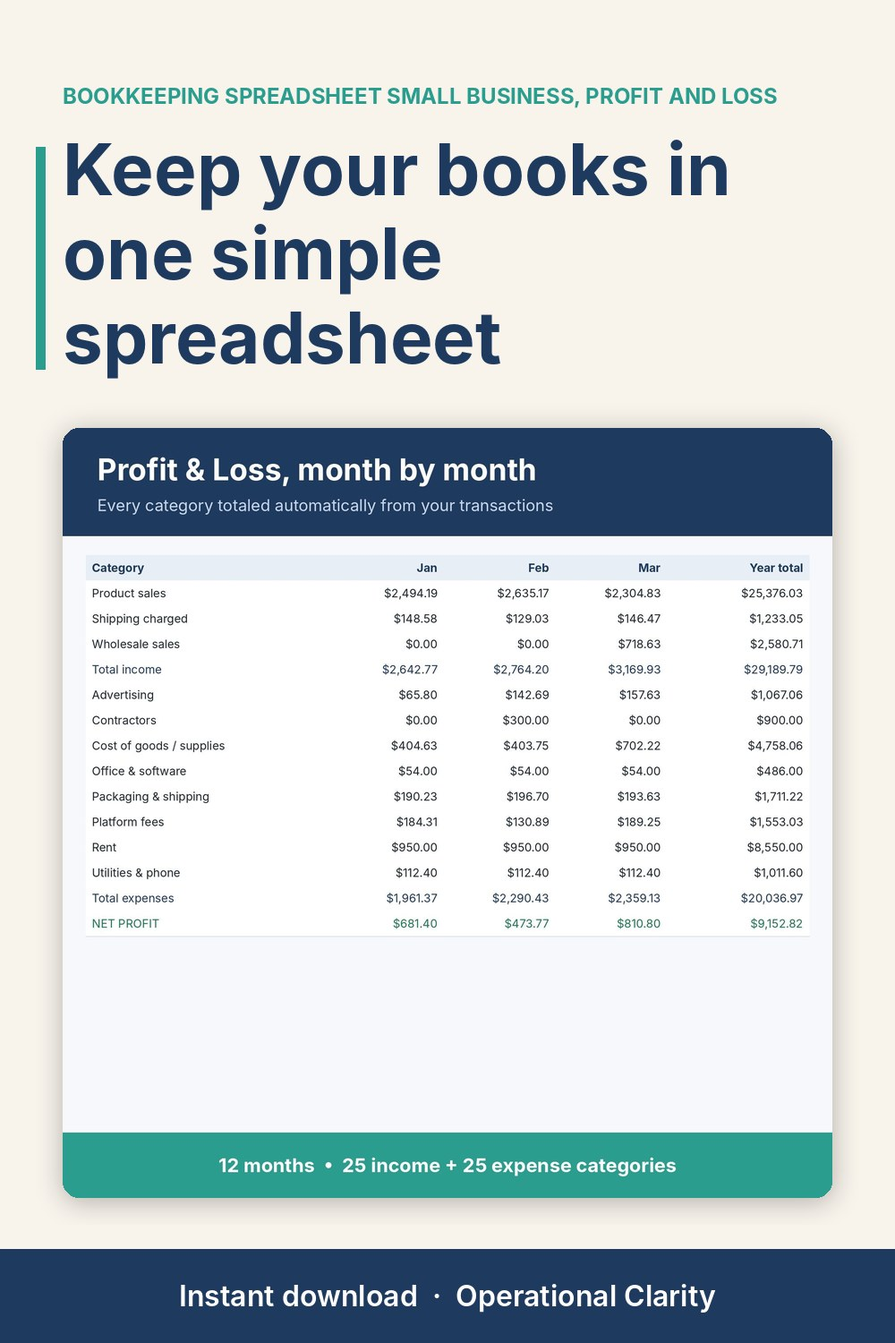
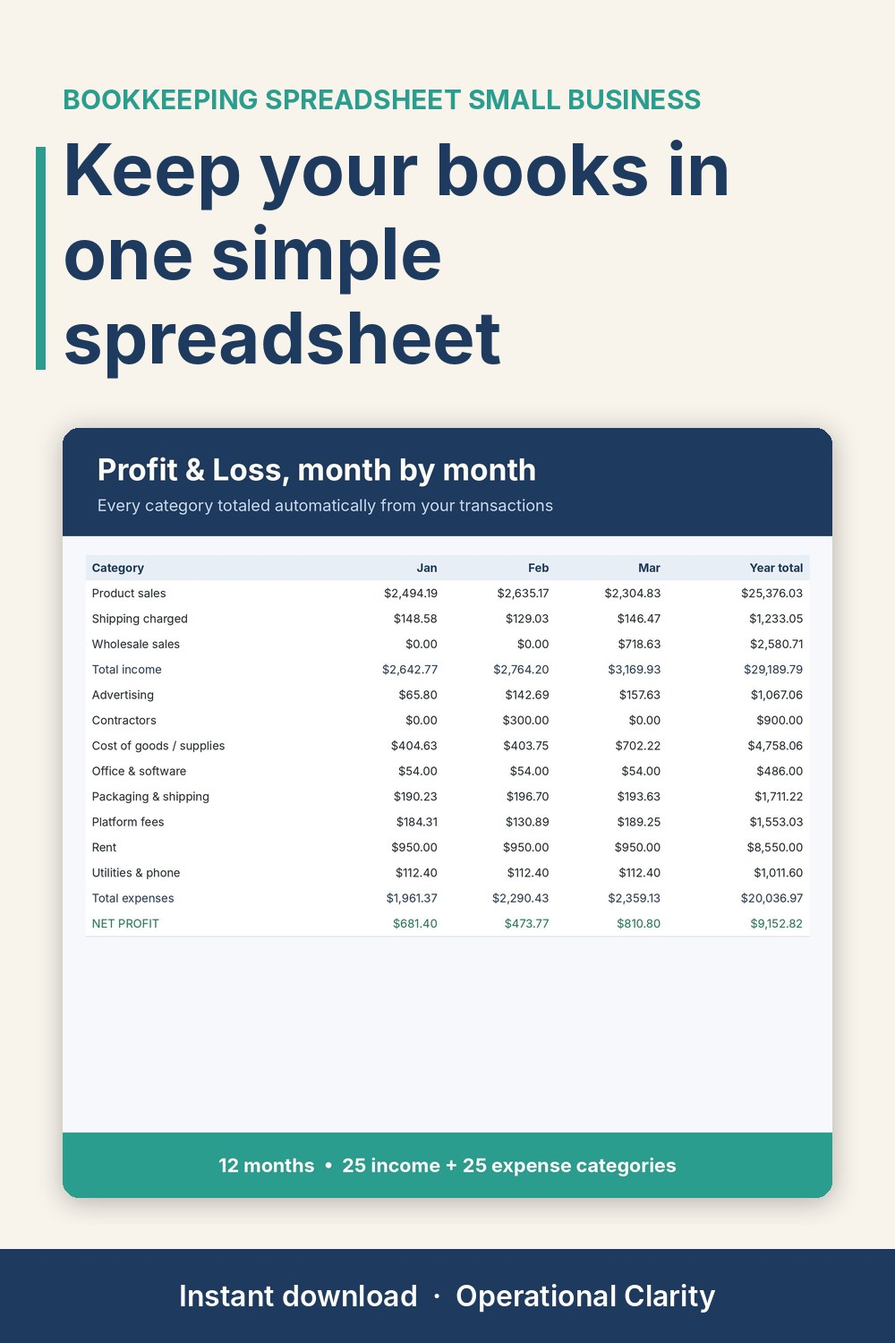
PROMO 11/05: main + b pins for Spray Tan 4609739239 and Dog Grooming 4610492983; main pins re-rendered for reverted titles (4596837173, 4598084241) and 4558377143 title fix; refresh feed
Claude-Session: https://claude.ai/code/session_01DNMp1qHdJLzhWbKsZHTYBr

Changed region(s): [[0.062, 0.0613, 0.868, 0.092]]

diff --git a/index.html b/index.html
@@ -7,6 +7,6 @@
 <div class="card"><h2><a href="recipe-cost-calculator.html">Recipe Cost Calculator</a></h2><p>Cost per batch, cost per serving and a suggested price for baked goods.</p></div>
 <div class="card"><h2><a href="paycheck-budget-calculator.html">Paycheck Budget Calculator</a></h2><p>Split bills across paychecks and see what is left from each one.</p></div>
 <div class="card"><h2><a href="landed-cost-calculator.html">Landed Cost Calculator</a></h2><p>True cost per unit after freight, duty and fees.</p></div>
-<h2 id="templates">Spreadsheet & Document Templates</h2><ul><li><a href="p/4595349035.html">2027 Planner Digital &amp; Printable</a></li><li><a href="p/4594598019.html">Airbnb Welcome Book Template Editable in Word Google Docs</a></li><li><a href="p/4602024296.html">Babysitting Forms Kit</a></li><li><a href="p/4553654453.html">Bakery Business Bundle</a></li><li><a href="p/4596837173.html">Bookkeeping Spreadsheet Small Business, Profit and Loss, Income Expense Tracker, Invoice Tracker, Bank Reconciliation, Accounting Template</a></li><li><a href="p/4608973473.html">Brow Lamination Forms Kit</a></li><li><a href="p/4554866019.html">Business Budget Spreadsheet</a></li><li><a href="p/4600601073.html">Candle Making Log Spreadsheet + Fragrance Load Calculator</a></li><li><a href="p/4601355308.html">Catering Contract Template, Catering Business Contract, Catering Agreement &amp; Order Form, BEO, Menu Quote Calculator, Invoice, Word PDF Excel</a></li><li><a href="p/4607543295.html">Cleaning Business Forms Kit</a></li><li><a href="p/4598967865.html">Coffee Shop Business Plan Template + Startup &amp; Profit Planner Spreadsheet</a></li><li><a href="p/4602477706.html">Consignment Tracker Spreadsheet + Consignment Agreement</a></li><li><a href="p/4600607420.html">Consulting Contract Template + Statement of Work &amp; Proposal</a></li><li><a href="p/4554878636.html">Contract Tracker Spreadsheet</a></li><li><a href="p/4597002015.html">Cookie Pricing Calculator</a></li><li><a href="p/4601198780.html">Dance Studio Forms Kit</a></li><li><a href="p/4601100164.html">Daycare Menu Planner Spreadsheet + Weekly Menu Template</a></li><li><a href="p/4598811066.html">Embroidery Pricing Calculator Spreadsheet</a></li><li><a href="p/4594516468.html">Employee Schedule Template Excel Google Sheets</a></li><li><a href="p/4607276707.html">Esthetician Forms Kit</a></li><li><a href="p/4599677766.html">Event Planning Contract Template, Editable Event Planner Contract, Wedding Planner Agreement, Client Questionnaire, Budget &amp; Vendor Tracker</a></li><li><a href="p/4599435344.html">Florist Order Form Template + Wedding Consultation Form &amp; Flower Pricing Calculator</a></li><li><a href="p/4602913827.html">Food Cost Bundle</a></li><li><a href="p/4597499808.html">Food Truck Business Plan Template + Startup &amp; Profit Planner Spreadsheet</a></li><li><a href="p/4602392090.html">Freelance Writer Contract Template Kit</a></li><li><a href="p/4601783746.html">Graphic Design Contract Template Kit</a></li><li><a href="p/4597022350.html">Home Daycare Starter Kit</a></li><li><a href="p/4601273740.html">Horse Boarding Contract Kit</a></li><li><a href="p/4552565761.html">Ingredient Cost Comparison Sheet</a></li><li><a href="p/4552578072.html">Inventory Count Sheet</a></li><li><a href="p/4554865995.html">Inventory Loss Tracker</a></li><li><a href="p/4553664350.html">Inventory Management Bundle</a></li><li><a href="p/4443844823.html">Inventory Tracker Spreadsheet with Reorder Alerts</a></li><li><a href="p/4602913735.html">Inventory and Ordering Bundle</a></li><li><a href="p/4554878596.html">Landed Cost Calculator Spreadsheet</a></li><li><a href="p/4602544610.html">Landscaping Contract Template Kit</a></li><li><a href="p/4606330823.html">Lash Tech Forms Kit</a></li><li><a href="p/4608245532.html">Makeup Artist Contract Kit</a></li><li><a href="p/4598084241.html">Massage Intake Form, Massage Consent Form, Massage SOAP Notes, Health History + Client Tracker Spreadsheet</a></li><li><a href="p/4601646939.html">Mobile Bar Service Contract Template, Mobile Bartending Contract &amp; Invoice, Bartender Agreement, Drink Calculator, Event Tracker, Word Excel</a></li><li><a href="p/4554866001.html">Multi Location Inventory Tracker</a></li><li><a href="p/4602844224.html">Nail Tech Forms Kit</a></li><li><a href="p/4601947594.html">Nanny Contract Template Kit</a></li><li><a href="p/4598251079.html">Notary Log Printable, Notary Journal 150 Entries, Notary Record Book + Business Kit, Fee Sheet, Loan Signing Checklist &amp; Mileage Tracker</a></li><li><a href="p/4594847811.html">Paycheck Budget Planner Spreadsheet</a></li><li><a href="p/4599761870.html">Personal Trainer Forms + Client Tracker</a></li><li><a href="p/4598178519.html">Pet Sitting Contract Template, Pet Sitting Service Agreement, Dog Walking Business Forms, Pet Care Sheet, Visit Report &amp; Invoice Tracker</a></li><li><a href="p/4597992636.html">Photography Client Questionnaire Templates + Pricing Calculator &amp; Booking Tracker</a></li><li><a href="p/4599831777.html">Piano Lesson Tracker + Practice Assignment Sheet &amp; Studio Policy</a></li><li><a href="p/4594208500.html">Print on Demand Profit Tracker Spreadsheet</a></li><li><a href="p/4554878680.html">Product Cost Calculator</a></li><li><a href="p/4603480063.html">Purchase Order + Inventory Dashboard</a></li><li><a href="p/4552565751.html">Purchase Order Approval Tracker</a></li><li><a href="p/4430807339.html">Purchase Order Tracker Spreadsheet &amp; Receiving Log</a></li><li><a href="p/4552578064.html">Purchasing SOP Templates</a></li><li><a href="p/4553664356.html">Purchasing Templates Bundle</a></li><li><a href="p/4558377143.html">QuickBooks Dashboard Template</a></li><li><a href="p/4554878614.html">Quote Comparison Spreadsheet</a></li><li><a href="p/4562652240.html">Recipe Cost and Pricing Calculator, Bakery Pricing Spreadsheet, Ingredient Cost &amp; Profit Margin Sheet for Home Bakery and Food Business</a></li><li><a href="p/4552578048.html">Reorder Point Calculator</a></li><li><a href="p/4600974020.html">Restaurant Inventory Sheet + Food Cost Calculator</a></li><li><a href="p/4604903580.html">Restaurant Purchasing Bundle</a></li><li><a href="p/4604185746.html">Retail Shop Bundle</a></li><li><a href="p/4554878660.html">Returns Tracker Spreadsheet</a></li><li><a href="p/4554878628.html">Sales Forecast Spreadsheet</a></li><li><a href="p/4597001937.html">Salon Booth Rental Contract, Booth Rental Agreement, Salon Station &amp; Chair Rental, Renter Application, Policies, Rent Tracker, Word Excel</a></li><li><a href="p/4561265217.html">Simple Inventory Tracker Spreadsheet</a></li><li><a href="p/4605653122.html">Small Business Bookkeeping Dashboard</a></li><li><a href="p/4553654601.html">Small Business Operations Bundle</a></li><li><a href="p/4598888813.html">Soap Making Log Spreadsheet + Cost per Bar Calculator</a></li><li><a href="p/4598679324.html">Social Media Manager Contract Template, Social Media Agreement, Client Onboarding Questionnaire, Pricing Calculator &amp; Client Tracker</a></li><li><a href="p/4552578060.html">Supplier Price Tracker</a></li><li><a href="p/4552578052.html">Supplier Tracker Spreadsheet</a></li><li><a href="p/4602618784.html">Tattoo Consent Form Kit</a></li><li><a href="p/4596131544.html">Tax Deduction Tracker Spreadsheet</a></li><li><a href="p/4601852361.html">Tutoring Contract Template Kit</a></li><li><a href="p/4552565827.html">Vendor Onboarding Checklist</a></li><li><a href="p/4599059861.html">Virtual Assistant Contract Template, VA Services Agreement, Client Onboarding Questionnaire, Retainer Time &amp; Invoice Tracker, Word Excel</a></li><li><a href="p/4554865969.html">Warehouse Spreadsheet</a></li><li><a href="p/4602285754.html">Web Design Contract Template Kit</a></li><li><a href="p/4598332795.html">Wholesale Order Form Template, Editable Wholesale Price List &amp; Order Tracker Spreadsheet, Wholesale Terms, Buyer Application, Excel Word</a></li><li><a href="p/4561283977.html">Wholesale Price List Template Excel Google Sheets</a></li></ul>
+<h2 id="templates">Spreadsheet & Document Templates</h2><ul><li><a href="p/4595349035.html">2027 Planner Digital &amp; Printable</a></li><li><a href="p/4594598019.html">Airbnb Welcome Book Template Editable in Word Google Docs</a></li><li><a href="p/4602024296.html">Babysitting Forms Kit</a></li><li><a href="p/4553654453.html">Bakery Business Bundle</a></li><li><a href="p/4596837173.html">Bookkeeping Spreadsheet Small Business</a></li><li><a href="p/4608973473.html">Brow Lamination Forms Kit</a></li><li><a href="p/4554866019.html">Business Budget Spreadsheet</a></li><li><a href="p/4600601073.html">Candle Making Log Spreadsheet + Fragrance Load Calculator</a></li><li><a href="p/4601355308.html">Catering Contract Template, Catering Business Contract, Catering Agreement &amp; Order Form, BEO, Menu Quote Calculator, Invoice, Word PDF Excel</a></li><li><a href="p/4607543295.html">Cleaning Business Forms Kit</a></li><li><a href="p/4598967865.html">Coffee Shop Business Plan Template + Startup &amp; Profit Planner Spreadsheet</a></li><li><a href="p/4602477706.html">Consignment Tracker Spreadsheet + Consignment Agreement</a></li><li><a href="p/4600607420.html">Consulting Contract Template + Statement of Work &amp; Proposal</a></li><li><a href="p/4554878636.html">Contract Tracker Spreadsheet</a></li><li><a href="p/4597002015.html">Cookie Pricing Calculator</a></li><li><a href="p/4601198780.html">Dance Studio Forms Kit</a></li><li><a href="p/4601100164.html">Daycare Menu Planner Spreadsheet + Weekly Menu Template</a></li><li><a href="p/4610492983.html">Dog Grooming Forms Kit</a></li><li><a href="p/4598811066.html">Embroidery Pricing Calculator Spreadsheet</a></li><li><a href="p/4594516468.html">Employee Schedule Template Excel Google Sheets</a></li><li><a href="p/4607276707.html">Esthetician Forms Kit</a></li><li><a href="p/4599677766.html">Event Planning Contract Template, Editable Event Planner Contract, Wedding Planner Agreement, Client Questionnaire, Budget &amp; Vendor Tracker</a></li><li><a href="p/4599435344.html">Florist Order Form Template + Wedding Consultation Form &amp; Flower Pricing Calculator</a></li><li><a href="p/4602913827.html">Food Cost Bundle</a></li><li><a href="p/4597499808.html">Food Truck Business Plan Template + Startup &amp; Profit Planner Spreadsheet</a></li><li><a href="p/4602392090.html">Freelance Writer Contract Template Kit</a></li><li><a href="p/4601783746.html">Graphic Design Contract Template Kit</a></li><li><a href="p/4597022350.html">Home Daycare Starter Kit</a></li><li><a href="p/4601273740.html">Horse Boarding Contract Kit</a></li><li><a href="p/4552565761.html">Ingredient Cost Comparison Sheet</a></li><li><a href="p/4552578072.html">Inventory Count Sheet</a></li><li><a href="p/4554865995.html">Inventory Loss Tracker</a></li><li><a href="p/4553664350.html">Inventory Management Bundle</a></li><li><a href="p/4443844823.html">Inventory Tracker Spreadsheet with Reorder Alerts</a></li><li><a href="p/4602913735.html">Inventory and Ordering Bundle</a></li><li><a href="p/4554878596.html">Landed Cost Calculator Spreadsheet</a></li><li><a href="p/4602544610.html">Landscaping Contract Template Kit</a></li><li><a href="p/4606330823.html">Lash Tech Forms Kit</a></li><li><a href="p/4608245532.html">Makeup Artist Contract Kit</a></li><li><a href="p/4598084241.html">Massage Intake Form Template + SOAP Notes &amp; Client Tracker Spreadsheet</a></li><li><a href="p/4601646939.html">Mobile Bar Service Contract Template, Mobile Bartending Contract &amp; Invoice, Bartender Agreement, Drink Calculator, Event Tracker, Word Excel</a></li><li><a href="p/4558377143.html">Monthly Profit and Loss Dashboard Template</a></li><li><a href="p/4554866001.html">Multi Location Inventory Tracker</a></li><li><a href="p/4602844224.html">Nail Tech Forms Kit</a></li><li><a href="p/4601947594.html">Nanny Contract Template Kit</a></li><li><a href="p/4598251079.html">Notary Log Printable, Notary Journal 150 Entries, Notary Record Book + Business Kit, Fee Sheet, Loan Signing Checklist &amp; Mileage Tracker</a></li><li><a href="p/4594847811.html">Paycheck Budget Planner Spreadsheet</a></li><li><a href="p/4599761870.html">Personal Trainer Forms + Client Tracker</a></li><li><a href="p/4598178519.html">Pet Sitting Contract Template, Pet Sitting Service Agreement, Dog Walking Business Forms, Pet Care Sheet, Visit Report &amp; Invoice Tracker</a></li><li><a href="p/4597992636.html">Photography Client Questionnaire Templates + Pricing Calculator &amp; Booking Tracker</a></li><li><a href="p/4599831777.html">Piano Lesson Tracker + Practice Assignment Sheet &amp; Studio Policy</a></li><li><a href="p/4594208500.html">Print on Demand Profit Tracker Spreadsheet</a></li><li><a href="p/4554878680.html">Product Cost Calculator</a></li><li><a href="p/4603480063.html">Purchase Order + Inventory Dashboard</a></li><li><a href="p/4552565751.html">Purchase Order Approval Tracker</a></li><li><a href="p/4430807339.html">Purchase Order Tracker Spreadsheet &amp; Receiving Log</a></li><li><a href="p/4552578064.html">Purchasing SOP Templates</a></li><li><a href="p/4553664356.html">Purchasing Templates Bundle</a></li><li><a href="p/4554878614.html">Quote Comparison Spreadsheet</a></li><li><a href="p/4562652240.html">Recipe Cost and Pricing Calculator, Bakery Pricing Spreadsheet, Ingredient Cost &amp; Profit Margin Sheet for Home Bakery and Food Business</a></li><li><a href="p/4552578048.html">Reorder Point Calculator</a></li><li><a href="p/4600974020.html">Restaurant Inventory Sheet + Food Cost Calculator</a></li><li><a href="p/4604903580.html">Restaurant Purchasing Bundle</a></li><li><a href="p/4604185746.html">Retail Shop Bundle</a></li><li><a href="p/4554878660.html">Returns Tracker Spreadsheet</a></li><li><a href="p/4554878628.html">Sales Forecast Spreadsheet</a></li><li><a href="p/4597001937.html">Salon Booth Rental Contract, Booth Rental Agreement, Salon Station &amp; Chair Rental, Renter Application, Policies, Rent Tracker, Word Excel</a></li><li><a href="p/4561265217.html">Simple Inventory Tracker Spreadsheet</a></li><li><a href="p/4605653122.html">Small Business Bookkeeping Dashboard</a></li><li><a href="p/4553654601.html">Small Business Operations Bundle</a></li><li><a href="p/4598888813.html">Soap Making Log Spreadsheet + Cost per Bar Calculator</a></li><li><a href="p/4598679324.html">Social Media Manager Contract Template, Social Media Agreement, Client Onboarding Questionnaire, Pricing Calculator &amp; Client Tracker</a></li><li><a href="p/4609739239.html">Spray Tan Forms Kit</a></li><li><a href="p/4552578060.html">Supplier Price Tracker</a></li><li><a href="p/4552578052.html">Supplier Tracker Spreadsheet</a></li><li><a href="p/4602618784.html">Tattoo Consent Form Kit</a></li><li><a href="p/4596131544.html">Tax Deduction Tracker Spreadsheet</a></li><li><a href="p/4601852361.html">Tutoring Contract Template Kit</a></li><li><a href="p/4552565827.html">Vendor Onboarding Checklist</a></li><li><a href="p/4599059861.html">Virtual Assistant Contract Template, VA Services Agreement, Client Onboarding Questionnaire, Retainer Time &amp; Invoice Tracker, Word Excel</a></li><li><a href="p/4554865969.html">Warehouse Spreadsheet</a></li><li><a href="p/4602285754.html">Web Design Contract Template Kit</a></li><li><a href="p/4598332795.html">Wholesale Order Form Template, Editable Wholesale Price List &amp; Order Tracker Spreadsheet, Wholesale Terms, Buyer Application, Excel Word</a></li><li><a href="p/4561283977.html">Wholesale Price List Template Excel Google Sheets</a></li></ul>
 <p>Want the full spreadsheet versions? <a class="cta" href="https://www.etsy.com/shop/Operationalclarity">Browse all templates on Etsy</a></p>
 </main><footer>Free tools by <a href="https://www.etsy.com/shop/Operationalclarity">Operational Clarity</a>. Estimates only, not financial or tax advice. Not affiliated with Etsy.</footer></body></html>

diff --git a/p/4609739239.html b/p/4609739239.html
@@ -1,0 +1,8 @@
+<!doctype html><html lang="en"><head><meta charset="utf-8"><meta name="viewport" content="width=device-width,initial-scale=1">
+<title>Spray Tan Forms Kit | Operational Clarity</title><meta name="description" content="Get the consent form and patch test record on file, price every spray tan so it pays you, and know when each client is due back: a complete spray tan forms">
+<link rel="canonical" href="https://hgmanagementusa-bot.github.io/operationalclarity-tools/p/4609739239.html"><link rel="stylesheet" href="../style.css">
+<meta property="og:title" content="Spray Tan Forms Kit"><meta property="og:image" content="https://hgmanagementusa-bot.github.io/operationalclarity-tools/pins/4609739239.jpg"><meta property="og:type" content="product"></head>
+<body><header><a href="../index.html">Operational Clarity · Small Business Templates</a></header><main>
+<h1>Spray Tan Forms Kit</h1><img src="../pins/4609739239.jpg" alt="Spray Tan Forms Kit" style="max-width:100%;height:auto;border-radius:8px">
+<p><a class="cta" href="https://www.etsy.com/listing/4609739239/spray-tan-forms-kit-spray-tan-consent">Get it on Etsy</a></p><p>Get the consent form and patch test record on file, price every spray tan so it pays you, and know when each client is due back: a complete spray tan forms kit with a working pricing calculator and client tracker, not just a few printable pages.</p><p>WHAT&#x27;S INSIDE<br>- Spray Tan Client Intake &amp; Consent Form (Word + PDF, 2 pages): client details, service and shade wanted, event date, skin type and tan history (skin tone, undertone, how skin reacts to sun, last spray tan and result, recent self-tanner / sun, recent waxing or exfoliating), simple yes / no client self-disclosure questions, patch test record (date, solution, area, result checked) or signed decline, 7 initialed acknowledgments, consent and release, before / after photo consent, client and technician signatures, parent / guardian line, yearly review / update log.<br>- Spray Tan Client Service Record (Word + PDF, 2 pages): tan profile (skin tone, undertone, preferred shade, solution, base color, contour areas), visit history (solution / shade, layers, rinse time you gave, client feedback, price, next tan), retail, deposits and balances, packages and memberships, before / after photo log.<br>- Spray Tan Studio Policies (Word + PDF): 9 ready-to-edit policies for deposits, forms and patch tests, getting ready, late arrivals, cancellations and no-shows, mobile and group / bridal bookings, results and touch-ups, packages / gift cards / retail, payments, minors and right to refuse.<br>- Blank Pre-Tan Prep and Post-Tan Care pages (in the policies file): branded pages left blank for your own instructions, so you use the wording for the solutions you work with.<br>- Spray Tan Pricing Calculator &amp; Client Tracker (Google Sheets / Excel, 6 tabs):<br>  * Service Menu: minutes, product cost (solution and disposables) and your price for each tan and add-on; suggested price from your target hourly pay, overhead and card fees; what you keep and your real pay per hour; BELOW SUGGESTED flag<br>  * Settings: target pay, monthly overhead, booked hours, card fees, deposit % and minimum, rounding, and after how many days your studio asks for a new patch test (your own policy)<br>  * Clients: contact details, tan notes (shade, solution, skin tone, tan history), consent form date, patch test date or &quot;not needed / waived&quot; mark, visits, total spent, retail bought, next tan due and rebook alerts (REBOOK NOW / DUE SOON / BOOKED); no health information stored<br>  * Appointments: service and add-on looked up from your menu, discounts, deposits, refunds, status, retail sold, days since last visit, balances and alerts (CONSENT MISSING / PATCH TEST MISSING / BALANCE DUE / DEPOSIT DUE / SEND FORMS / PATCH TEST DUE / UPCOMING / UPDATE STATUS)<br>  * Dashboard: service revenue, retail sales, tips, product costs, card fees, what you keep, pay per hour worked, average ticket, no-show rate, deposits held, month-by-month and service-by-service tables, chart and a list of appointments that need attention<br>- START HERE guide (PDF)</p><p>HOW IT WORKS<br>1. Enter your target pay, overhead, card fees and patch test policy on Settings.<br>2. Add your tans on the Service Menu tab and fix anything flagged BELOW SUGGESTED.<br>3. Write your own text on the blank Pre-Tan Prep and Post-Tan Care pages, then send new clients the policies, prep page and Intake &amp; Consent Form before their first tan; note the consent date and patch test date on Clients.<br>4. Log each booking and deposit; price, time and product cost fill in automatically.<br>5. After each tan, record payment, tip and retail sales, and watch the alerts for missing consent forms or patch tests, balances, deposits and clients due back.<br>Example data (8 services, 14 sample clients, 58 appointments) shows how it all connects; delete it and type your own. Yellow cells = type here, green cells = calculated.</p><p>FORMATS<br>- Word .docx (edit in Microsoft Word, Google Docs, Pages or LibreOffice) + PDF, US Letter<br>- Excel .xlsx made for Google Sheets (also works in Excel and LibreOffice; no macros)</p><p>This is an instant digital download, no physical item will be shipped.</p><p>Editable template, not legal advice. Have it reviewed by a local attorney and check your state board of cosmetology and local requirements (consent wording, minors, patch tests, client records, licensing) before you use it. The client questions are simple yes / no self-disclosures: information only, not a medical screening tool and not medical advice. No prep, aftercare, skin care or medical advice is included; follow your solution manufacturer&#x27;s instructions.</p><p><a class="cta" href="https://www.etsy.com/listing/4609739239/spray-tan-forms-kit-spray-tan-consent">Get it on Etsy</a></p>
+</main><footer>By <a href="https://www.etsy.com/shop/Operationalclarity">Operational Clarity</a>. Not affiliated with Etsy.</footer></body></html>

diff --git a/p/4610492983.html b/p/4610492983.html
@@ -1,0 +1,8 @@
+<!doctype html><html lang="en"><head><meta charset="utf-8"><meta name="viewport" content="width=device-width,initial-scale=1">
+<title>Dog Grooming Forms Kit | Operational Clarity</title><meta name="description" content="Get the release and vaccine record on file, price every groom so it pays you, and know when each pet is due back: a complete dog grooming forms kit with a ">
+<link rel="canonical" href="https://hgmanagementusa-bot.github.io/operationalclarity-tools/p/4610492983.html"><link rel="stylesheet" href="../style.css">
+<meta property="og:title" content="Dog Grooming Forms Kit"><meta property="og:image" content="https://hgmanagementusa-bot.github.io/operationalclarity-tools/pins/4610492983.jpg"><meta property="og:type" content="product"></head>
+<body><header><a href="../index.html">Operational Clarity · Small Business Templates</a></header><main>
+<h1>Dog Grooming Forms Kit</h1><img src="../pins/4610492983.jpg" alt="Dog Grooming Forms Kit" style="max-width:100%;height:auto;border-radius:8px">
+<p><a class="cta" href="https://www.etsy.com/listing/4610492983/dog-grooming-forms-kit-editable-grooming">Get it on Etsy</a></p><p>Get the release and vaccine record on file, price every groom so it pays you, and know when each pet is due back: a complete dog grooming forms kit with a working pricing calculator and pet tracker, not just a few printable pages.</p><p>WHAT&#x27;S INSIDE<br>- Dog Grooming Client Intake &amp; Release Form (Word + PDF, 2 pages): owner and pet details, vet, vaccination records (valid-until date, copy received, or &quot;not required&quot; under your policy), groom wanted and coat condition, behavior and handling yes / no questions, simple yes / no owner self-disclosure questions, emergency vet authorization with a spending limit you set, 7 initialed acknowledgments (matting and shave-down, nicks, seniors and stress, behavior and muzzles, fleas, policies), release, before / after photo consent, owner and groomer signatures, yearly update log.<br>- Dog Grooming Pet Service Record (Word + PDF, 2 pages): groom profile (style, blades and guard combs, shampoo, dryer, handling notes), visit history (service, blade / comb, coat, behavior, notes for next time, price, next groom), retail, deposits and balances, packages and memberships, before / after photo log.<br>- Dog Grooming Salon Policies (Word + PDF): 9 ready-to-edit policies for deposits, forms and vaccine records, matted coats, behavior and safety, drop-off and pick-up, cancellations and no-shows, fleas and health, packages / gift cards / retail, payments and right to refuse.<br>- Groom Report Cards (in the policies file): 2 per page to send home with each pet: what was done, coat, how they did, groomer notes, next groom.<br>- Dog Grooming Pricing Calculator &amp; Client Tracker (Google Sheets / Excel, 6 tabs):<br>  * Service Menu: minutes, product cost (shampoo, blades, supplies) and your price for each groom, bath and add-on; suggested price from your target hourly pay, overhead and card fees; what you keep and your real pay per hour; BELOW SUGGESTED flag<br>  * Settings: target pay, monthly overhead, booked hours, card fees, deposit % and minimum, rounding, and a grace period after a vaccine record expires (your own policy)<br>  * Clients: one row per pet with owner contact, breed / size / coat / style notes, release signed date, vaccine record valid-until date or &quot;not required&quot; mark, visits, total spent, retail bought, next groom due and rebook alerts (REBOOK NOW / DUE SOON / BOOKED)<br>  * Appointments: service and add-on looked up from your menu, discounts, deposits, refunds, status, retail sold, days since last groom, balances and alerts (RELEASE MISSING / VACCINES MISSING / BALANCE DUE / DEPOSIT DUE / SEND FORMS / VACCINES DUE / UPCOMING / UPDATE STATUS)<br>  * Dashboard: service revenue, retail sales, tips, product costs, card fees, what you keep, pay per hour worked, average ticket, no-show rate, deposits held, month-by-month and service-by-service tables, chart and a list of appointments that need attention<br>- START HERE guide (PDF)</p><p>HOW IT WORKS<br>1. Enter your target pay, overhead, card fees and vaccine record policy on Settings.<br>2. Add your grooms, baths and add-ons on the Service Menu tab and fix anything flagged BELOW SUGGESTED.<br>3. Edit the policies, then send new clients the policies and the Intake &amp; Release Form before the first groom; note the release date and vaccine record date on Clients.<br>4. Log each booking and deposit; price, time and product cost fill in automatically.<br>5. After each groom, record payment, tip and retail sales, fill in a report card, and watch the alerts for missing releases or vaccine records, balances, deposits and pets due back.<br>Example data (8 services, 14 sample pets, 44 appointments) shows how it all connects; delete it and type your own. Yellow cells = type here, green cells = calculated.</p><p>FORMATS<br>- Word .docx (edit in Microsoft Word, Google Docs, Pages or LibreOffice) + PDF, US Letter<br>- Excel .xlsx made for Google Sheets (also works in Excel and LibreOffice; no macros)</p><p>This is an instant digital download, no physical item will be shipped.</p><p>Editable template, not legal advice. Have it reviewed by a local attorney and check your state and local requirements (business licensing, rabies and vaccination rules, record keeping) and your insurance before you use it. The owner questions are simple yes / no self-disclosures: information only, not a veterinary or medical screening tool and not veterinary advice.</p><p><a class="cta" href="https://www.etsy.com/listing/4610492983/dog-grooming-forms-kit-editable-grooming">Get it on Etsy</a></p>
+</main><footer>By <a href="https://www.etsy.com/shop/Operationalclarity">Operational Clarity</a>. Not affiliated with Etsy.</footer></body></html>

diff --git a/p/4598084241.html b/p/4598084241.html
@@ -1,8 +1,8 @@
 <!doctype html><html lang="en"><head><meta charset="utf-8"><meta name="viewport" content="width=device-width,initial-scale=1">
-<title>Massage Intake Form, Massage Consent Form, Massage SOAP Notes, Health History + Client Tracker Spreadsheet | Operational Clarity</title><meta name="description" content="MASSAGE INTAKE FORM KIT | Client Intake &amp; Health History, Consent, SOAP Notes + Client &amp; Session Tracker | Editable Word, Google Docs, PDF + Excel / Google">
+<title>Massage Intake Form Template + SOAP Notes &amp; Client Tracker Spreadsheet | Operational Clarity</title><meta name="description" content="MASSAGE INTAKE FORM KIT | Client Intake &amp; Health History, Consent, SOAP Notes + Client &amp; Session Tracker | Editable Word, Google Docs, PDF + Excel / Google">
 <link rel="canonical" href="https://hgmanagementusa-bot.github.io/operationalclarity-tools/p/4598084241.html"><link rel="stylesheet" href="../style.css">
-<meta property="og:title" content="Massage Intake Form, Massage Consent Form, Massage SOAP Notes, Health History + Client Tracker Spreadsheet"><meta property="og:image" content="https://hgmanagementusa-bot.github.io/operationalclarity-tools/pins/4598084241.jpg"><meta property="og:type" content="product"></head>
+<meta property="og:title" content="Massage Intake Form Template + SOAP Notes &amp; Client Tracker Spreadsheet"><meta property="og:image" content="https://hgmanagementusa-bot.github.io/operationalclarity-tools/pins/4598084241.jpg"><meta property="og:type" content="product"></head>
 <body><header><a href="../index.html">Operational Clarity · Small Business Templates</a></header><main>
-<h1>Massage Intake Form, Massage Consent Form, Massage SOAP Notes, Health History + Client Tracker Spreadsheet</h1><img src="../pins/4598084241.jpg" alt="Massage Intake Form, Massage Consent Form, Massage SOAP Notes, Health History + Client Tracker Spreadsheet" style="max-width:100%;height:auto;border-radius:8px">
+<h1>Massage Intake Form Template + SOAP Notes &amp; Client Tracker Spreadsheet</h1><img src="../pins/4598084241.jpg" alt="Massage Intake Form Template + SOAP Notes &amp; Client Tracker Spreadsheet" style="max-width:100%;height:auto;border-radius:8px">
 <p><a class="cta" href="https://www.etsy.com/listing/4598084241/massage-intake-form-template-soap-notes">Get it on Etsy</a></p><p>MASSAGE INTAKE FORM KIT | Client Intake &amp; Health History, Consent, SOAP Notes + Client &amp; Session Tracker | Editable Word, Google Docs, PDF + Excel / Google Sheets | Instant Download</p><p>Everything a massage therapist needs on paper, plus a spreadsheet that remembers it for you. Edit in Word, Pages or Google Docs - no Canva needed.</p><p>CLIENT INTAKE &amp; CONSENT (Word + PDF, 3 pages)<br>• Contact info and emergency contact<br>• Reason for visit, pressure preference, focus areas and areas to AVOID, allergies and sensitivities (oils, lotions, scents)<br>• 21-item health history checklist, medications, doctor&#x27;s care<br>• Areas of concern table (focus / avoid / pain 0-10)<br>• Consent statements with initials, cancellation and late-arrival policies (edit the hours and fees), client and therapist signatures, minor consent</p><p>SOAP NOTES &amp; HEALTH UPDATES (Word + PDF)<br>• 2 SOAP session note pages (Subjective, Objective, Assessment, Plan)<br>• Returning-client health history update form</p><p>GIFT CERTIFICATES &amp; PACKAGE CARD (Word + PDF)<br>• 2 gift certificates and a 10-visit prepaid package card</p><p>CLIENT &amp; SESSION TRACKER (Excel / Google Sheets)<br>• Services menu: name, minutes, price<br>• Clients: intake signed date, renewal due date and status (On file / Due in X days / UPDATE NEEDED / MISSING), last visit, number of visits, total spent, and a &quot;time to check in&quot; flag for clients you haven&#x27;t seen<br>• Sessions log (2,000 rows): pick client and service and the price fills in; add discounts, tips and payment method; mark package sessions<br>• Prepaid packages: sessions used and remaining count themselves from the session log, with a &quot;1 left - offer renewal&quot; alert<br>• Dashboard: session revenue, package sales, tips, sessions and revenue by month, most booked services, intake forms to update, prepaid sessions still owed</p><p>WHAT YOU GET (one ZIP file)<br>• 1_Client_Intake_and_Consent.docx + .pdf<br>• 2_SOAP_Notes_and_Health_Updates.docx + .pdf<br>• 3_Gift_Certificate_and_Package_Card.docx + .pdf<br>• Massage_Client_and_Session_Tracker.xlsx<br>• 0_START_HERE guide (Word + PDF)</p><p>HOW TO USE<br>• Word: open in Microsoft Word, Pages or Google Docs (upload the .docx to Google Drive, then open with Google Docs). Replace everything in [brackets].<br>• Spreadsheet: open in Excel, or upload to Google Drive and open with Google Sheets. Yellow cells are for typing; green cells calculate. Example data included.</p><p>Editable template, not medical or legal advice. Intake, consent and record-keeping requirements differ by state and licensing board: review the forms against your state&#x27;s rules before use.</p><p>INSTANT DIGITAL DOWNLOAD. No physical item will be shipped.</p><p><a class="cta" href="https://www.etsy.com/listing/4598084241/massage-intake-form-template-soap-notes">Get it on Etsy</a></p>
 </main><footer>By <a href="https://www.etsy.com/shop/Operationalclarity">Operational Clarity</a>. Not affiliated with Etsy.</footer></body></html>

diff --git a/p/4596837173.html b/p/4596837173.html
@@ -1,8 +1,8 @@
 <!doctype html><html lang="en"><head><meta charset="utf-8"><meta name="viewport" content="width=device-width,initial-scale=1">
-<title>Bookkeeping Spreadsheet Small Business, Profit and Loss, Income Expense Tracker, Invoice Tracker, Bank Reconciliation, Accounting Template | Operational Clarity</title><meta name="description" content="SMALL BUSINESS BOOKKEEPING SPREADSHEET | Income &amp; Expense Tracker, Profit and Loss, Bank Reconciliation, Invoice Tracker | Excel &amp; Google Sheets | Instant ">
+<title>Bookkeeping Spreadsheet Small Business | Operational Clarity</title><meta name="description" content="SMALL BUSINESS BOOKKEEPING SPREADSHEET | Income &amp; Expense Tracker, Profit and Loss, Bank Reconciliation, Invoice Tracker | Excel &amp; Google Sheets | Instant ">
 <link rel="canonical" href="https://hgmanagementusa-bot.github.io/operationalclarity-tools/p/4596837173.html"><link rel="stylesheet" href="../style.css">
-<meta property="og:title" content="Bookkeeping Spreadsheet Small Business, Profit and Loss, Income Expense Tracker, Invoice Tracker, Bank Reconciliation, Accounting Template"><meta property="og:image" content="https://hgmanagementusa-bot.github.io/operationalclarity-tools/pins/4596837173.jpg"><meta property="og:type" content="product"></head>
+<meta property="og:title" content="Bookkeeping Spreadsheet Small Business"><meta property="og:image" content="https://hgmanagementusa-bot.github.io/operationalclarity-tools/pins/4596837173.jpg"><meta property="og:type" content="product"></head>
 <body><header><a href="../index.html">Operational Clarity · Small Business Templates</a></header><main>
-<h1>Bookkeeping Spreadsheet Small Business, Profit and Loss, Income Expense Tracker, Invoice Tracker, Bank Reconciliation, Accounting Template</h1><img src="../pins/4596837173.jpg" alt="Bookkeeping Spreadsheet Small Business, Profit and Loss, Income Expense Tracker, Invoice Tracker, Bank Reconciliation, Accounting Template" style="max-width:100%;height:auto;border-radius:8px">
+<h1>Bookkeeping Spreadsheet Small Business</h1><img src="../pins/4596837173.jpg" alt="Bookkeeping Spreadsheet Small Business" style="max-width:100%;height:auto;border-radius:8px">
 <p><a class="cta" href="https://www.etsy.com/listing/4596837173/bookkeeping-spreadsheet-small-business">Get it on Etsy</a></p><p>SMALL BUSINESS BOOKKEEPING SPREADSHEET | Income &amp; Expense Tracker, Profit and Loss, Bank Reconciliation, Invoice Tracker | Excel &amp; Google Sheets | Instant Download</p><p>Keep your books in one simple spreadsheet. Log each transaction once, and your monthly profit &amp; loss, account balances, bank reconciliation and unpaid invoices all update automatically.</p><p>WHAT IT DOES<br>• Transaction ledger with 2,000 rows: date, description, Income or Expense, category, account and amount, with dropdowns<br>• Profit &amp; Loss: income and expenses by category for every month, plus year totals, net profit and profit margin<br>• 25 income and 25 expense categories you can rename to fit your business<br>• Cash &amp; Reconcile: starting balance, money in, money out and book balance for up to 8 accounts (checking, savings, credit card, cash, PayPal / Stripe)<br>• Bank reconciliation: enter your statement balance and see the difference, with uncleared items shown<br>• Transfers between your own accounts change balances without affecting profit<br>• Invoice tracker (300 rows): Paid, Open, Due soon and Overdue status, days late, and an aging table (1-30, 31-60, 61-90, 90+ days)<br>• Dashboard: year-to-date income, expenses, net profit, margin, cash on hand, money owed to you, top 5 expenses and a monthly income vs expenses chart</p><p>BEST FOR<br>Small business owners, Etsy and online sellers, makers, service businesses and freelancers who want clean books without accounting software.</p><p>WHAT YOU GET<br>• 1 Excel workbook (.xlsx) with 7 tabs: START HERE, DASHBOARD, SETTINGS, TRANSACTIONS, PROFIT &amp; LOSS, CASH &amp; RECONCILE, INVOICES<br>• Example data so you can see how it works (just type over it)</p><p>COMPATIBILITY<br>Microsoft Excel. For Google Sheets, upload the file to Google Drive and open it with Google Sheets.</p><p>GOOD TO KNOW<br>• This is a bookkeeping organizer, not accounting or tax advice.<br>• Digital download. No physical item will be shipped.<br>• Personal / single-business use only. No reselling or sharing of the file.</p><p><a class="cta" href="https://www.etsy.com/listing/4596837173/bookkeeping-spreadsheet-small-business">Get it on Etsy</a></p>
 </main><footer>By <a href="https://www.etsy.com/shop/Operationalclarity">Operational Clarity</a>. Not affiliated with Etsy.</footer></body></html>

diff --git a/p/4558377143.html b/p/4558377143.html
@@ -1,8 +1,8 @@
 <!doctype html><html lang="en"><head><meta charset="utf-8"><meta name="viewport" content="width=device-width,initial-scale=1">
-<title>QuickBooks Dashboard Template | Operational Clarity</title><meta name="description" content="QUICKBOOKS TRANSACTION DASHBOARD (INSTANT DOWNLOAD) Turn a simple transaction export into a clean monthly Income vs Expense dashboard-automatically. See yo">
+<title>Monthly Profit and Loss Dashboard Template | Operational Clarity</title><meta name="description" content="QUICKBOOKS TRANSACTION DASHBOARD (INSTANT DOWNLOAD) Turn a simple transaction export into a clean monthly Income vs Expense dashboard-automatically. See yo">
 <link rel="canonical" href="https://hgmanagementusa-bot.github.io/operationalclarity-tools/p/4558377143.html"><link rel="stylesheet" href="../style.css">
-<meta property="og:title" content="QuickBooks Dashboard Template"><meta property="og:image" content="https://hgmanagementusa-bot.github.io/operationalclarity-tools/pins/4558377143.jpg"><meta property="og:type" content="product"></head>
+<meta property="og:title" content="Monthly Profit and Loss Dashboard Template"><meta property="og:image" content="https://hgmanagementusa-bot.github.io/operationalclarity-tools/pins/4558377143.jpg"><meta property="og:type" content="product"></head>
 <body><header><a href="../index.html">Operational Clarity · Small Business Templates</a></header><main>
-<h1>QuickBooks Dashboard Template</h1><img src="../pins/4558377143.jpg" alt="QuickBooks Dashboard Template" style="max-width:100%;height:auto;border-radius:8px">
+<h1>Monthly Profit and Loss Dashboard Template</h1><img src="../pins/4558377143.jpg" alt="Monthly Profit and Loss Dashboard Template" style="max-width:100%;height:auto;border-radius:8px">
 <p><a class="cta" href="https://www.etsy.com/listing/4558377143/quickbooks-dashboard-template-monthly">Get it on Etsy</a></p><p>QUICKBOOKS TRANSACTION DASHBOARD (INSTANT DOWNLOAD)</p><p>Turn a simple transaction export into a clean monthly Income vs Expense dashboard-automatically. See your profit margin, monthly trends, and top expense categories at a glance, without touching a single pivot table.</p><p>Best for: small business owners, freelancers, bookkeepers-anyone who wants a fast visual read on their QuickBooks numbers without learning QuickBooks&#x27; built-in reports.</p><p>What this system does (built into the file):<br>- Turns transaction-level data into a monthly Income vs Expense summary<br>- Calculates Net Profit and Profit Margin automatically<br>- Ranks your top expense categories, highest to lowest<br>- Updates automatically as you add more transactions</p><p>Includes (1 file):<br>QuickBooks Transaction Dashboard spreadsheet (.XLSX)</p><p>How to use (inside the file):<br>Open the START HERE tab for the exact setup steps:<br>1. Export your transactions (Date, Category, Type, Amount)<br>2. Paste into the TRANSACTIONS tab<br>3. Go to the DASHBOARD tab - everything updates automatically</p><p>Compatibility:<br>Works in Excel (.xlsx). You can also upload the file to Google Drive and use it in Google Sheets. All formulas are standard SUMIF/SUMIFS - no Google-only functions, so nothing breaks when opened in Excel.</p><p>License:<br>Personal / single-business use only. No reselling, sharing, or redistribution (including modified versions).</p><p>Digital item notice:<br>This is a digital download. No physical product will be shipped.</p><p><a class="cta" href="https://www.etsy.com/listing/4558377143/quickbooks-dashboard-template-monthly">Get it on Etsy</a></p>
 </main><footer>By <a href="https://www.etsy.com/shop/Operationalclarity">Operational Clarity</a>. Not affiliated with Etsy.</footer></body></html>
